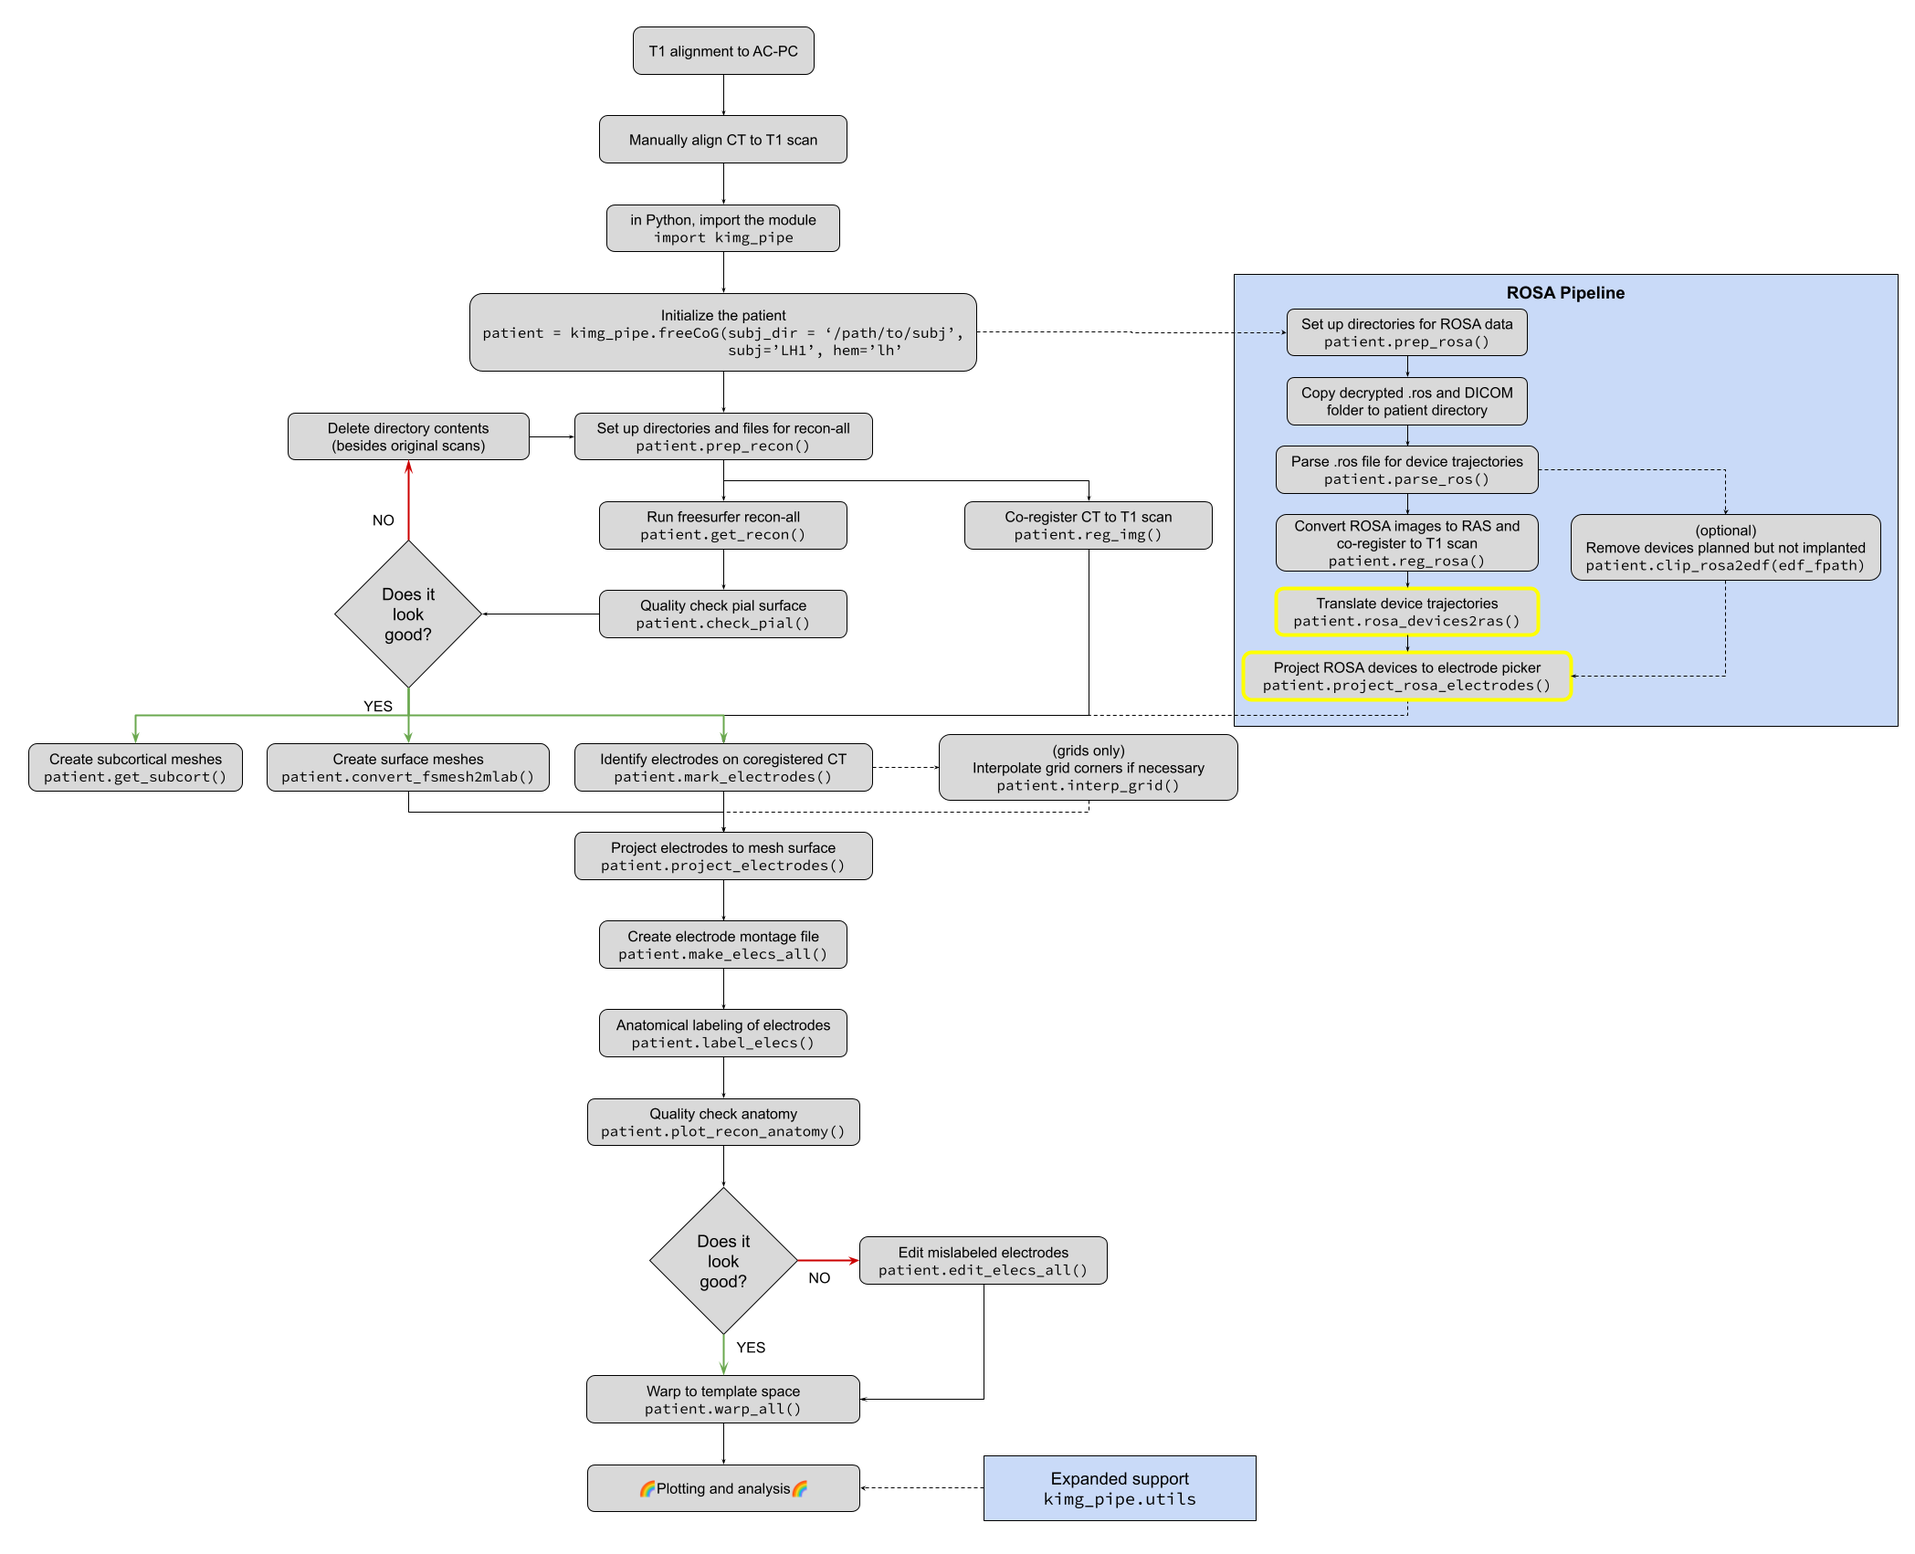
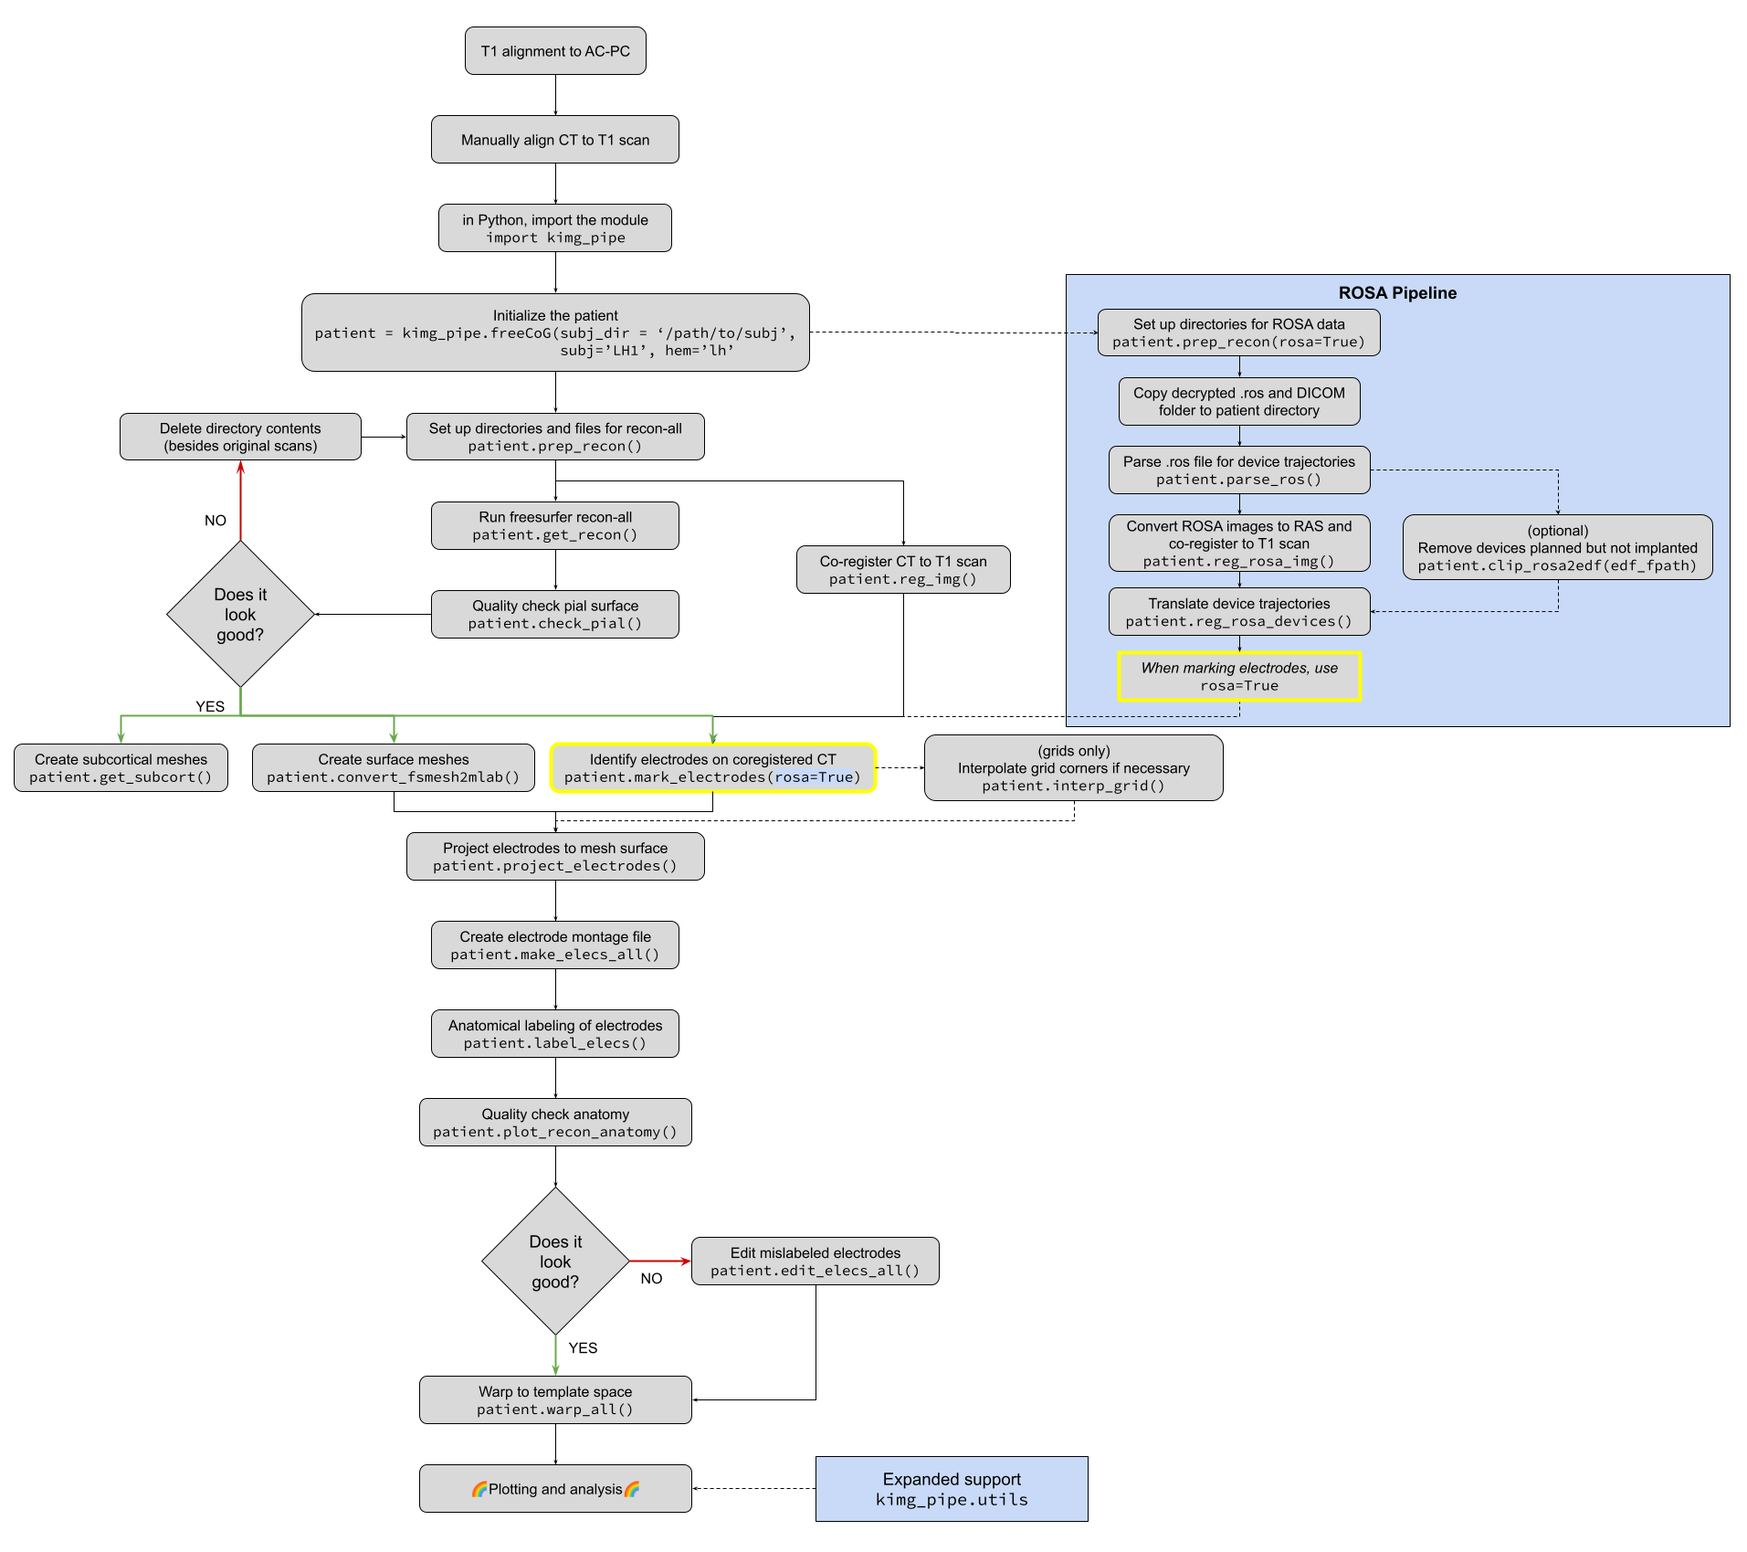
added T1 and electrode trajectory coregistration for ROSA data, next step is add to elec picker

Changed region(s): [[0.0, 0.0, 1.0, 0.9982]]

diff --git a/kimg_pipe/kimg_pipe.py b/kimg_pipe/kimg_pipe.py
@@ -25,6 +25,7 @@ import shutil
 import argparse
 import inspect
 from fuzzywuzzy import fuzz # Fuzzy string matching using Levenshtein distance
+
 import nibabel as nib
 from tqdm import tqdm
 
@@ -51,6 +52,7 @@ import struct
 import mne
 
 from .plotting.mlab_3D_to_2D import get_world_to_view_matrix, get_view_to_display_matrix, apply_transform_to_points
+from .SupplementalFiles import FS_colorLUT
 
 # For animations, from pycortex
 linear = lambda x, y, m: (1.-m)*x + m*y
@@ -219,14 +221,20 @@ class freeCoG:
             else:
                 raise NameError('No such subject directory as %s' % (os.path.join(subj_dir, subj)))
 
+        members = [attr for attr in dir(self) if not callable(getattr(self, attr)) and not attr.startswith("__")]
+        self.info = dict()
+        for m in members:
+            self.info[m] = getattr(self, m)
+
         #if paths are not the default paths in the shell environment:
         os.environ['FREESURFER_HOME'] = fs_dir
         os.environ['SUBJECTS_DIR'] = subj_dir
 
-    def prep_recon(self):
+    def prep_recon(self, rosa=False):
         '''Prepares file directory structure of subj_dir, copies acpc-aligned               
         T1.nii to the 'orig' directory and converts to mgz format.
-
+        Set rosa=True to also prepare file directory structure for preprocessing
+        ROSA surgical robot files.
         '''       
 
         # navigate to directory with subject freesurfer folders           
@@ -252,6 +260,19 @@ class freeCoG:
         T1_file2 = os.path.join(orig_dir, 'T1.nii')
         T1_mgz = os.path.join(orig_dir, '001.mgz')
         os.system('mri_convert %s %s'%(T1_file2, T1_mgz))
+
+        if rosa:
+            if not os.path.isdir(self.rosa_dir):
+                print("Making ROSA directory, please put .ros and DICOM folder here")
+                os.mkdir(self.rosa_dir)
+            elif not os.path.isfile(os.path.join(self.rosa_dir, f'{self.subj}.ros')):
+                print(f'{self.subj}.ros not found, please add to {self.rosa_dir} before running patient.parse_ros().')
+            elif not os.path.isdir(os.path.join(self.rosa_dir, "DICOM")):
+                print(f'DICOM folder missing from {self.rosa_dir}.',
+                       'Please copy folder + contents from decrypted ROSA files before running patient.parse_ros().')
+            if not os.path.isdir(os.path.join(self.elecs_dir,"rosa")):
+                os.mkdir(os.path.join(self.elecs_dir,"rosa"))
+
 
     def get_recon(self, flag_T3 = '-3T', openmp_flag='-openmp 12', gpu_flag=''):        
         '''Runs freesurfer recon-all for surface reconstruction.                
@@ -352,19 +373,6 @@ class freeCoG:
         self.convert_fsmesh2mlab(mesh_name = 'dural')
 
     # >>> ROSA FUNCTIONS – UNIQUE TO kimg_pipe
-    def prep_rosa(self):
-        '''
-        Prepares file directory structure of subj_dir for parsing ROSA data.
-        '''
-        if not os.path.isdir(self.rosa_dir):
-            print("Making ROSA directory, please put .ros and DICOM folder here")
-            os.mkdir(self.rosa_dir)
-        elif not os.path.isfile(os.path.join(self.rosa_dir, f'{self.subj}.ros')):
-            print(f'{self.subj}.ros not found, please add to {self.rosa_dir} before running patient.parse_ros().')
-        elif not os.path.isdir(os.path.join(self.rosa_dir, "DICOM")):
-            print(f'DICOM folder missing from {self.rosa_dir}.',
-                   'Please copy folder + contents from decrypted ROSA files before running patient.parse_ros().')
-
     def parse_ros(self, ros_path=None):
         '''
         Parses a .ros file into a more readable format
@@ -424,7 +432,7 @@ class freeCoG:
             self.rosa_devices[device_name]['start'] = np.array(traj_str[4:7]).astype(float)
             self.rosa_devices[device_name]['end'] = np.array(traj_str[8:11]).astype(float)
 
-    def reg_rosa(self, T1_name=None):
+    def reg_rosa_img(self, T1_name=None):
         '''
         ROSA images are in Analyze/LAS by default.
         Converts images to NIFTI/RAS and coregisters to the T1.
@@ -495,6 +503,118 @@ class freeCoG:
         outfile = os.path.join(self.rosa_dir, "mri", "rT1.nii")
         print(f"Saving registered ROSA T1 image as {outfile}")
         nipy.save_image(reg_rosa, outfile)
+
+    def reg_rosa_devices(self):
+        '''
+        Converts device trajectories from LAS to RAS and coregisters to the T1
+        Converts images to NIFTI/RAS and coregisters to the T1.
+
+        TODO: Add interpolation based on number of contacts on device (inferred from self.clip_rosa2edf() or smth).
+        '''
+        
+        ## Set up directories and check for prerequisite files
+        if not os.path.isdir(os.path.join(self.rosa_dir, "mri", "Trajectories")):
+            # Un-coregistered trajectory images will be saved here:
+            os.mkdir(os.path.join(self.rosa_dir, "mri", "Trajectories"))
+        if not os.path.isdir(os.path.join(self.rosa_dir, "mri", "rTrajectories")):
+            # Coregistered trajectory images will be saved here:
+            os.mkdir(os.path.join(self.rosa_dir, "mri", "rTrajectories"))
+        # Lastly, coregistered trajectory images will be converted to .mat files and saved here:
+        rosa_elecs_dir = os.path.join(self.elecs_dir,"rosa")
+        # Make sure T1 has been coregistered already in patient.reg_rosa_img()
+        target_file = os.path.join(self.rosa_dir, "mri", "rT1.nii")
+        if not os.path.isfile(target_file):
+            raise Exception(f"rT1.nii missing from {self.rosa_dir}/mri/. Please run patient.reg_rosa_img() first.")
+        t1_img = nib.load(target_file)
+        t1_affine = t1_img.affine
+        t1_affine_inv = np.linalg.inv(t1_affine)
+
+        for device_name in self.rosa_devices.keys():
+        ## Rotate out of LAS (update rotation)
+            rotation = np.eye(4)
+            rotation[:3, :3] = scipy.spatial.transform.Rotation.from_euler('xyz', [0., 0., np.pi]).as_matrix() # matlab: rot2ras
+            device_start = self.rosa_devices[device_name]['start']
+            device_end = self.rosa_devices[device_name]['end']
+            device_traj = np.vstack((np.hstack(([device_start,1.])), np.hstack(([device_end,1.])))) # traj_tosave
+            rot_traj = np.array(device_traj @ rotation)
+            # self.rosa_devices[device_name]['rot_start'] = tr_traj[0,:3]
+            # self.rosa_devices[device_name]['rot_stop'] = tr_traj[1,:3]
+
+        ## Save to NIFTI in rosa_dir/mri/Trajectories
+            traj_dat = np.zeros(t1_img.shape)
+            start_vx = np.round(t1_affine_inv @ rot_traj[0,:]).astype(int)[:3] # :3
+            end_vx = np.round(t1_affine_inv @ rot_traj[1,:]).astype(int)[:3]
+            device_pts = interp_line(start_vx, end_vx, n_points=2) # TO DO: More flexible n_points
+            for pt in device_pts:
+                x,y,z = pt
+                # This should throw an error if the dimensions of something or another are off just fyi
+                traj_dat[x,y,z] = 1.
+            traj_img = nib.Nifti1Image(traj_dat, t1_affine, header=t1_img.header)
+            outfile = os.path.join(self.rosa_dir, "mri", "Trajectories", f"{device_name}.nii")
+            print(f"Saving un-coregistered trajectory for {device_name} as {outfile}")
+            nib.save(traj_img, outfile)
+
+        ## Co-register to orig.mgz
+        # Code for this block based off self.reg_img()
+            # Reload trajectory/T1 with nipy to get the coordmap
+            source_file = outfile
+            traj_img = nipy.load_image(source_file)
+            mri_img = nipy.load_image(target_file)
+            traj_cmap = traj_img.coordmap
+            mri_cmap = mri_img.coordmap
+            # Compute registration
+            traj_to_mri_reg = nipy.algorithms.registration.histogram_registration.HistogramRegistration(traj_img, mri_img, similarity="nmi", smooth=0., interp="pv")
+            aff = traj_to_mri_reg.optimize('rigid').as_affine()
+            traj_to_mri = AffineTransform(traj_cmap.function_range, mri_cmap.function_range, aff)
+            reg_traj = nipy.algorithms.resample.resample(traj_img, mri_cmap, traj_to_mri.inverse(), mri_img.shape)
+            # Re-binarize data as we get these weird non-1 floats after resampling
+            arr = reg_traj.get_data()
+            arr[arr > 0.5] = 1. # 0.5 is kind of arbitrary but whatever, it works
+            arr[arr < 0.5] = 0.
+            cmap = reg_traj.coordmap
+            traj_img = nipy.core.image.image.Image(arr, cmap)
+            # Save NIFTI in rosa_dir/mri/rTrajectories
+            outfile = os.path.join(self.rosa_dir, "mri", "rTrajectories", f"{device_name}.nii")
+            print(f"Saving coregistered trajectory for {device_name} as {outfile}")
+            nipy.save_image(traj_img, outfile)
+
+        ## Save to .mat file in rosa_elecs_dir 
+        # Code for this block is based off bits of SupplementalScripts/electrode_picker.py
+            elecfile = os.path.join(rosa_elecs_dir, f"{device_name}.mat")
+            elecmatrix = [] # This will be the electrode coordinates
+            # Apply orientation to the image so that the order of the dimensions will be
+            # sagittal, coronal, axial
+            codes = nib.orientations.axcodes2ornt(nib.orientations.aff2axcodes(traj_img.affine))
+            img_data = nib.orientations.apply_orientation(traj_img.get_data(), codes)
+            nx, ny, nz = np.array(img_data.shape, dtype='float')
+            # Reshape image dimensions to imsz (if necessary)
+            imsz = (256,256,256) # these are the image dimensions used in electrode_picker
+            if img_data.shape != imsz:
+                # print("Resizing voxels in trajectory image")
+                img_data = scipy.ndimage.zoom(img_data, [imsz[0]/nx, imsz[1]/ny, imsz[2]/nz])
+                # print(img_data.shape)
+
+            # DO WE NEED TO LOAD THE PIAL FILL HERE? I DON'T THINK SO
+
+            # Convert elec to RAS MNI coordinate (AC at 0,0,0)
+            n_elecs = np.where(img_data==1)[0].shape[0]
+            print(f"Found {n_elecs} elecs for {device_name}")
+            for ii in np.arange(n_elecs):
+                # Get CRS coordinate
+                coord = np.array(np.where(img_data==1))[:,ii]
+                elec_CRS = np.hstack((imsz[0] - coord[0] - 1.,
+                                      imsz[2] - coord[2] -1.,
+                                      coord[1], 1))
+                # Convert CRS to RAS
+                fsVox2RAS = np.array(
+                    [[-1., 0., 0., 128.], [0., 0., 1., -128.], [0., -1., 0., 128.], [0., 0., 0., 1.]])
+                elec = np.dot(fsVox2RAS, elec_CRS.transpose()).transpose().astype(float)
+                print(elec)
+                elecmatrix.append(elec[:3])
+            
+            # Save list of elecs to file in rosa_elecs_dir
+            print(f"Saving {device_name}.mat to {rosa_elecs_dir}")
+            scipy.io.savemat(elecfile, {'elecmatrix': np.array(elecmatrix,dtype='float')})
 
     def clip_rosa2edf(self, data_dir=None, mode='edf', fuzz_thresh=70, clip_aggressive=False, return_pop=False):
         '''
@@ -568,23 +688,6 @@ class freeCoG:
             self.rosa_devices.pop(k)
         if return_pop:
             return rm_devices
-
-    def rosa_devices2ras(self):
-        '''
-        Applies the RAS transformation from self.convert_rosa2ras() to
-        all device trajectories in self.rosa_devices.
-        '''
-        rotation = scipy.spatial.transform.Rotation.from_euler('xyz', [0., 0., np.pi]).as_matrix()
-        affine_rotation = np.eye(4)
-        affine_rotation[:3, :3] = rotation # matlab: rot2ras
-        for device_name in self.rosa_devices.keys():
-            device_start = self.rosa_devices[device_name]['start']
-            device_end = self.rosa_devices[device_name]['end']
-            device_traj = np.vstack((device_start, device_end)) # traj_tosave
-            tr_traj = (affine_rotation @ device_traj.T).T
-            self.rosa_devices[device_name]['tr_start'] = tr_traj[0,:3]
-            self.rosa_devices[device_name]['tr_stop'] = tr_traj[1,:3]
-
 
     def project_rosa_electrodes(self):
         '''
@@ -3196,6 +3299,23 @@ class freeCoG:
 
 
 # Functions #
+
+def interp_line(start, end, n_points=2):
+    '''
+    Given a start voxel (CRS) and end voxel (CRS) in an image,
+    draws a line between the two points with the same image
+    dimensions that contains n_points (n_points=2 would only draw
+    start and end points). (Hopefully) useful for interpolating
+    depth electrodes along a device.
+
+    Returns voxel indices as integers
+    '''
+    start = np.asarray(start, dtype=float)
+    end = np.asarray(end, dtype=float)
+    line = np.linspace(0, 1, n_points)
+    line_points = np.array([np.round((1-pt) * start + pt * end).astype(int) for pt in line])
+
+    return line_points
 
 def remove_whitespace(brain_image):
     '''

diff --git a/kimg_pipe/SupplementalScripts/electrode_picker.py b/kimg_pipe/SupplementalScripts/electrode_picker.py
@@ -4,7 +4,7 @@
 # 
 
 import matplotlib
-matplotlib.use('Qt4Agg') 
+matplotlib.use('Qt5Agg') 
 matplotlib.rcParams['toolbar'] = 'None'
 from pyface.qt import QtGui, QtCore
 from matplotlib import pyplot as plt
@@ -24,8 +24,9 @@ import matplotlib.patches as mpatches
 import scipy.io
 import os
 import warnings
-from PyQt4.QtGui import *
-from PyQt4.QtCore import *
+from PyQt5.QtGui import *
+from PyQt5.QtCore import *
+from PyQt5.QtWidgets import *
 from matplotlib.widgets import Slider
 
 sys.path.append(os.path.dirname(os.path.dirname(os.path.abspath(__file__))))
@@ -263,7 +264,7 @@ class electrode_picker:
         # Plot sagittal, coronal, and axial views 
         for i in np.arange(3):
             self.ax.append(self.fig.add_subplot(2,2,i+1))
-            self.ax[i].set_axis_bgcolor('k')
+            self.ax[i].set_facecolor('k')
             if i==0:
                 imdata = img_data[cs[0],:,:].T
                 ctdat  = ct_data[cs[0],:,:].T
@@ -313,7 +314,7 @@ class electrode_picker:
         # Plot the maximum intensity projection
         self.ct_slice = 's' # Show sagittal MIP to start
         self.ax.append(self.fig.add_subplot(2,2,4))
-        self.ax[3].set_axis_bgcolor('k')
+        self.ax[3].set_facecolor('k')
         self.im.append(plt.imshow(np.nanmax(ct_data[cs[0]-15:cs[0]+15,:,:], axis=0).T, cmap=cm.gray, aspect='auto'))
         self.cursor.append(plt.plot([cs[1], cs[1]], [self.ax[3].get_ylim()[0]+1, self.ax[3].get_ylim()[1]-1], color=[0, 1, 0] ))
         self.cursor2.append(plt.plot([self.ax[3].get_xlim()[0]+1, self.ax[3].get_xlim()[1]-1], [cs[2], cs[2]], color=[0, 1, 0] ))
@@ -341,7 +342,7 @@ class electrode_picker:
         ct_slider_ax = plt.axes([self.ax[1].get_position().bounds[0]+0.06, 
                       self.ax[1].get_position().bounds[1]+0.42, 
                       self.ax[1].get_position().bounds[2]-0.1, 0.02])
-        print(np.nanmax(ct_data))
+        # print('nanmax ct data:', np.nanmax(ct_data))
         self.ct_slider = Slider(ct_slider_ax, 'CT max', 1000, np.nanmax(ct_data), facecolor=[0.8, 0.1, 0.1])
         self.ct_slider.on_changed(self.update_ct)
 
@@ -366,7 +367,7 @@ class electrode_picker:
         pagedown/pageup: move by one slice in currently selected pane
         arrow up/arrow down: pan by one voxel in currently selected pane
         '''
-        #print('You pressed', event.key)
+        print('You pressed', event.key)
         bb1=self.ax[0].get_position()
         bb2=self.ax[1].get_position()
         bb3=self.ax[2].get_position()
@@ -423,6 +424,7 @@ class electrode_picker:
                 self.elec_num[self.device_name] = 0
                 elecfile = os.path.join(self.subj_dir, 'elecs', 'individual_elecs', self.device_name+'.mat')
                 if os.path.isfile(elecfile):
+                    print(f"Elecfile found: {elecfile}")
                     emat = scipy.io.loadmat(elecfile)['elecmatrix']
                     self.elecmatrix[self.device_name] = list(emat)
                     print("Loading %s (if you wish to overwrite, remove this file before running)"%(elecfile))
@@ -523,7 +525,7 @@ class electrode_picker:
         view on MRI and CT views.
         '''
 
-        #print('You scrolled %d steps at x: %d, y: %d', event.step, event.x, event.y)
+        # print('You scrolled %d steps at x: %d, y: %d', event.step, event.x, event.y)
         # Get the bounding box for each of the subplots
         bb1=self.ax[0].get_position()
         bb2=self.ax[1].get_position()
@@ -743,8 +745,8 @@ class electrode_picker:
         
         self.elec_num[self.device_name] += 1
         self.elec_added = True
-        #print("Voxel CRS: %3.3f, %3.3f, %3.3f"%(self.current_slice[0], self.current_slice[1], self.current_slice[2]))
-        #print("RAS coordinate: %3.3f, %3.3f, %3.3f"%(elec[0], elec[1], elec[2]))
+        print("Voxel CRS: %3.3f, %3.3f, %3.3f"%(self.current_slice[0], self.current_slice[1], self.current_slice[2]))
+        print("RAS coordinate: %3.3f, %3.3f, %3.3f"%(elec[0], elec[1], elec[2]))
 
     def remove_electrode(self):
         '''
